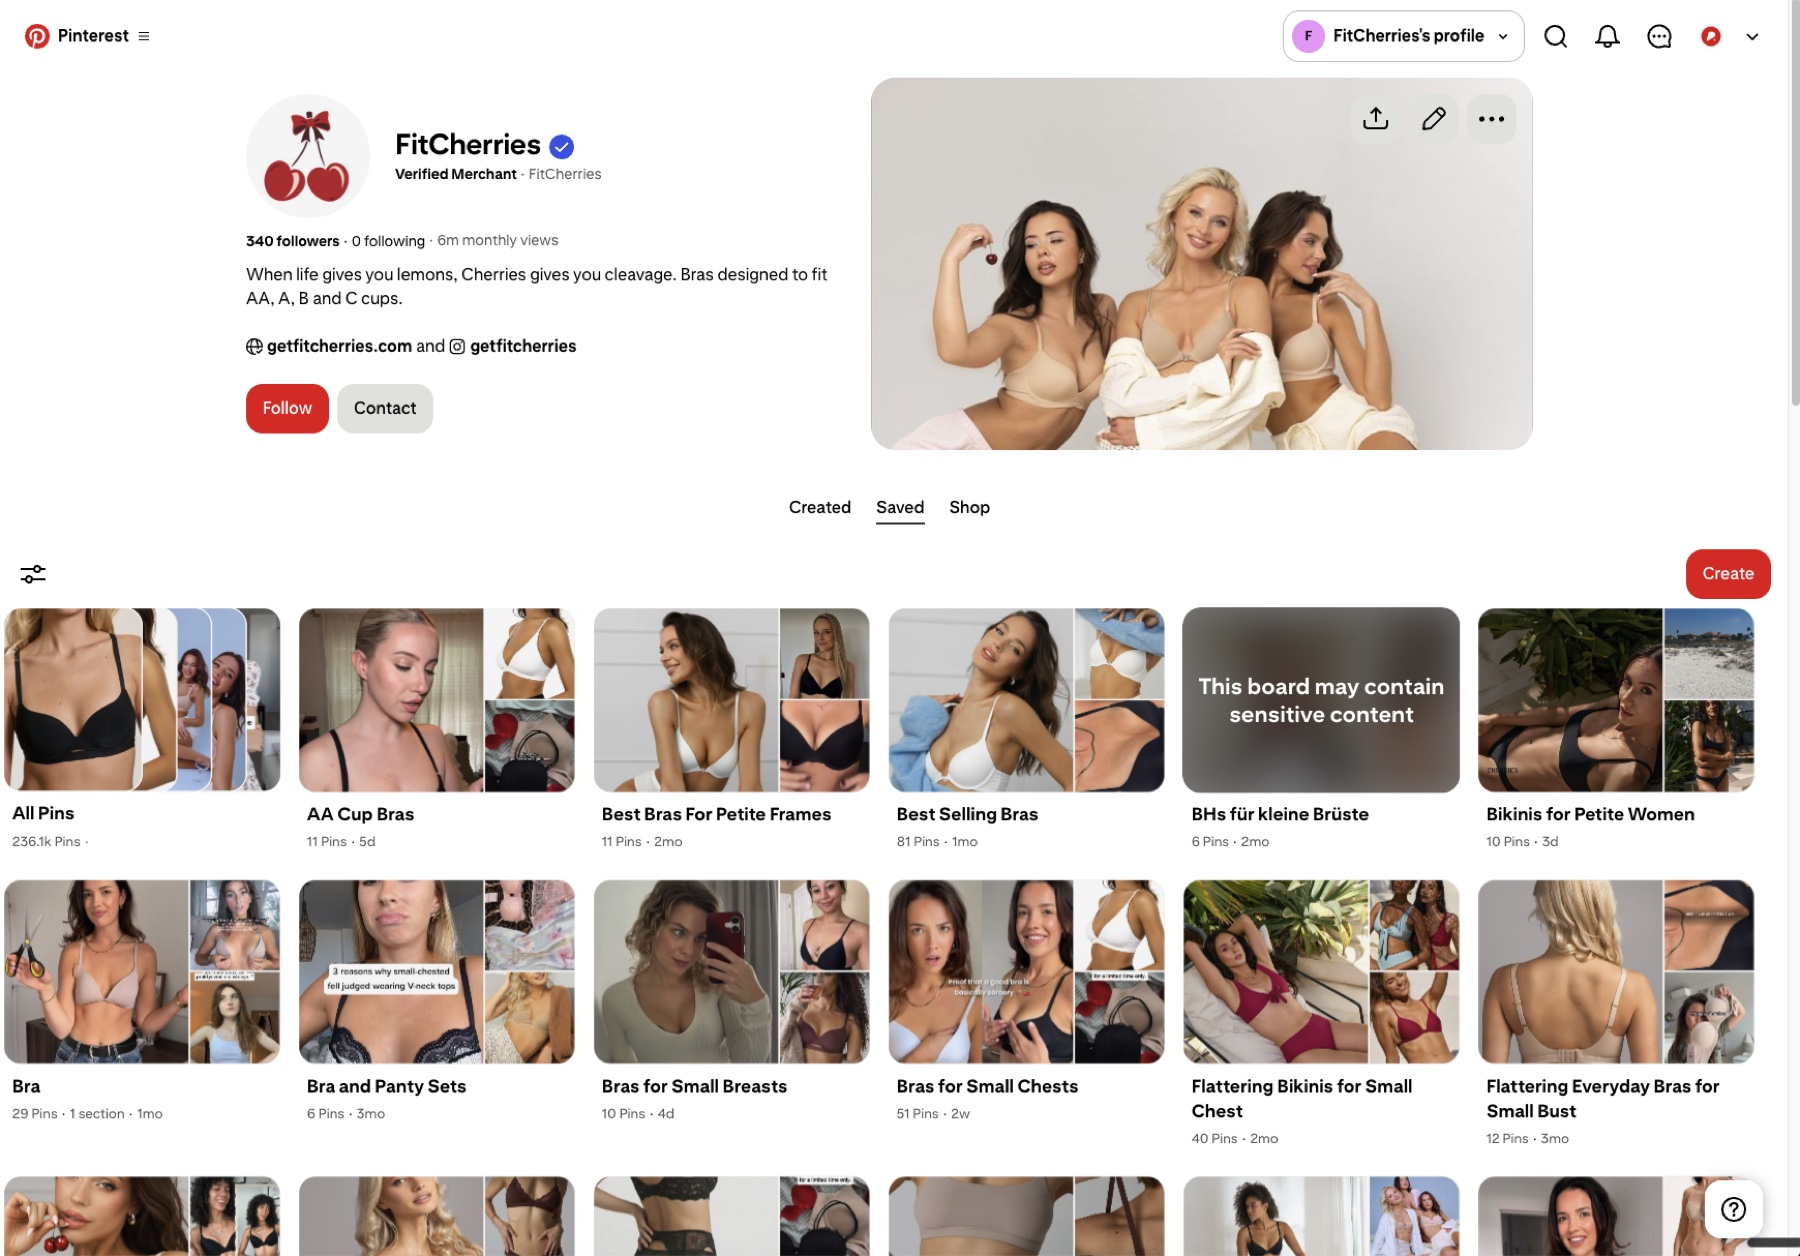
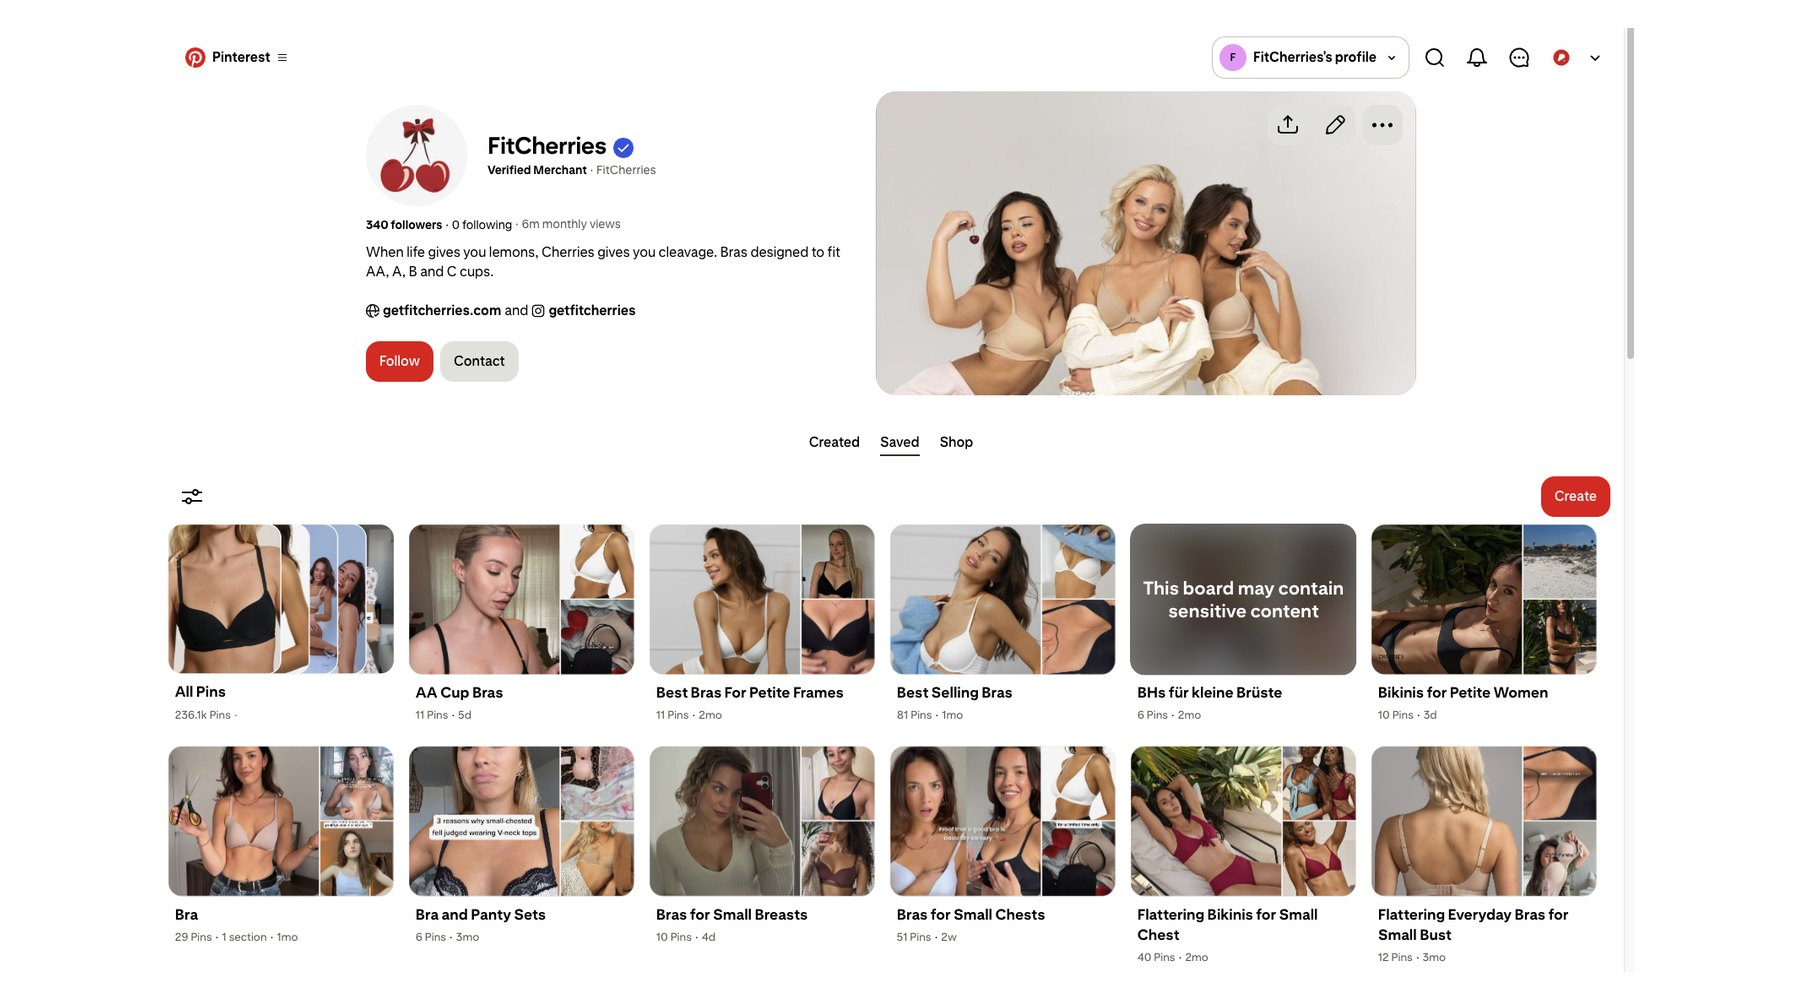
feat(pitch): Organic wordt een swipe van opzet naar resultaat
De twee beelden stonden onder elkaar in verschillende formaten: het
profiel met donkere balken aan de zijkant, de conversiepagina over de
volle breedte. Nu is het één kader waarin je van het ene naar het andere
swipet: eerst hoe het profiel eruitziet, dan wat het oplevert.

Beide beelden zijn op hetzelfde formaat gezet, 1800 bij 1000 met een witte
marge, zodat er bij het swipen niets verspringt. 1,8 op 1 zit tussen het
profiel en de conversiepagina in, zodat geen van beide ver hoeft te
krimpen. Van het profiel is de half zichtbare derde rij borden eraf.

Swipen werkt met touch en trackpad via scroll-snap. Het canvas zet
touch-action op none om zelf te kunnen pannen, dus het spoor zet het
terug op pan-x. Voor wie met een muis presenteert zijn er pijlen en
stippen. Geen labels op de slides, want de regel is geen bijschriften.

diff --git a/src/app/pitch/VisualCarousel.tsx b/src/app/pitch/VisualCarousel.tsx
@@ -1,0 +1,85 @@
+"use client";
+
+import { useEffect, useRef, useState } from "react";
+
+/**
+ * Meerdere beelden bij één sectie, als swipe: eerst wat we opzetten, dan wat
+ * het oplevert. Alle slides hebben hetzelfde formaat, zodat er bij het
+ * swipen niets verspringt.
+ *
+ * Swipen werkt met touch en trackpad (native scroll-snap), de pijlen en de
+ * stippen zijn er voor wie presenteert met een muis. Geen labels op de
+ * slides: de deck-regel is dat een beeld geen uitleg eronder krijgt.
+ */
+export default function VisualCarousel({
+  slides,
+  alt,
+  onZoom,
+}: {
+  slides: string[];
+  alt: string;
+  onZoom: (z: { src: string; alt: string }) => void;
+}) {
+  const track = useRef<HTMLDivElement>(null);
+  const [active, setActive] = useState(0);
+
+  useEffect(() => {
+    const el = track.current;
+    if (!el) return;
+    const onScroll = () =>
+      setActive(Math.round(el.scrollLeft / Math.max(1, el.clientWidth)));
+    el.addEventListener("scroll", onScroll, { passive: true });
+    return () => el.removeEventListener("scroll", onScroll);
+  }, []);
+
+  const go = (i: number) => {
+    const el = track.current;
+    if (!el) return;
+    const next = Math.max(0, Math.min(slides.length - 1, i));
+    el.scrollTo({ left: next * el.clientWidth, behavior: "smooth" });
+  };
+
+  return (
+    <div className="vc">
+      <div className="vc-track" ref={track}>
+        {slides.map((src) => (
+          <div className="vc-slide" key={src}>
+            {/* eslint-disable-next-line @next/next/no-img-element */}
+            <img src={src} alt={alt} onClick={() => onZoom({ src, alt })} />
+          </div>
+        ))}
+      </div>
+
+      <button
+        type="button"
+        className="vc-arrow prev"
+        aria-label="Vorige"
+        disabled={active === 0}
+        onClick={() => go(active - 1)}
+      >
+        ‹
+      </button>
+      <button
+        type="button"
+        className="vc-arrow next"
+        aria-label="Volgende"
+        disabled={active === slides.length - 1}
+        onClick={() => go(active + 1)}
+      >
+        ›
+      </button>
+
+      <div className="vc-dots">
+        {slides.map((src, i) => (
+          <button
+            key={src}
+            type="button"
+            aria-label={`Beeld ${i + 1} van ${slides.length}`}
+            className={i === active ? "on" : ""}
+            onClick={() => go(i)}
+          />
+        ))}
+      </div>
+    </div>
+  );
+}

diff --git a/src/app/pitch/pitch.css b/src/app/pitch/pitch.css
@@ -1811,7 +1811,92 @@
   margin-top: 0;
 }
 
-/* Een tweede beeld onder het eerste: een lijn ertussen, geen tweede kader. */
-.pitch-visual img.pitch-visual-extra {
-  border-top: 1px solid var(--line);
+/* --- Swipe tussen beelden (VisualCarousel) ------------------------------- */
+
+.vc {
+  position: relative;
+}
+.vc-track {
+  display: flex;
+  overflow-x: auto;
+  scroll-snap-type: x mandatory;
+  scrollbar-width: none;
+  /* Het canvas zet touch-action op none om zelf te kunnen pannen; hier moet
+     een vinger weer horizontaal mogen vegen. */
+  touch-action: pan-x;
+  overscroll-behavior-x: contain;
+}
+.vc-track::-webkit-scrollbar {
+  display: none;
+}
+.vc-slide {
+  flex: 0 0 100%;
+  scroll-snap-align: start;
+  scroll-snap-stop: always;
+}
+/* Alle slides hebben hetzelfde formaat, dus geen hoogtegrens en geen
+   letterbox: het beeld vult het kader precies. */
+.pitch-visual .vc-slide img {
+  width: 100%;
+  height: auto;
+  max-height: none;
+  display: block;
+  background: #fff;
+  cursor: zoom-in;
+}
+.vc-arrow {
+  position: absolute;
+  top: 50%;
+  transform: translateY(-50%);
+  width: 38px;
+  height: 38px;
+  border-radius: 50%;
+  border: 1px solid rgba(0, 0, 0, 0.12);
+  background: rgba(20, 17, 21, 0.78);
+  color: #fff;
+  font-size: 20px;
+  line-height: 1;
+  cursor: pointer;
+  display: flex;
+  align-items: center;
+  justify-content: center;
+  backdrop-filter: blur(6px);
+}
+.vc-arrow.prev {
+  left: 12px;
+}
+.vc-arrow.next {
+  right: 12px;
+}
+.vc-arrow:hover:not(:disabled) {
+  background: var(--red);
+}
+.vc-arrow:disabled {
+  opacity: 0;
+  pointer-events: none;
+}
+.vc-dots {
+  position: absolute;
+  left: 50%;
+  bottom: 12px;
+  transform: translateX(-50%);
+  display: flex;
+  gap: 7px;
+  padding: 6px 9px;
+  border-radius: 999px;
+  background: rgba(20, 17, 21, 0.7);
+}
+.vc-dots button {
+  width: 7px;
+  height: 7px;
+  padding: 0;
+  border: 0;
+  border-radius: 50%;
+  background: rgba(255, 255, 255, 0.35);
+  cursor: pointer;
+}
+.vc-dots button.on {
+  width: 20px;
+  border-radius: 4px;
+  background: var(--red-2);
 }

diff --git a/src/app/pitch/PitchCanvas.tsx b/src/app/pitch/PitchCanvas.tsx
@@ -20,6 +20,7 @@ import {
 } from "./data";
 import PitchCalculator from "./PitchCalculator";
 import { FIGURES } from "./figures";
+import VisualCarousel from "./VisualCarousel";
 import "./pitch.css";
 
 // ---------------------------------------------------------------------------
@@ -122,24 +123,22 @@ function renderVisual(
         node.visual.wide ? " is-wide" : " is-side"
       }${node.visual.figure === "guarantees" ? " is-bare" : ""}`}
     >
-      {art && (
-        // eslint-disable-next-line @next/next/no-img-element
-        <img
-          src={art}
+      {art && node.visual.extra?.length ? (
+        <VisualCarousel
+          slides={[art, ...node.visual.extra]}
           alt={node.visual.note}
-          onClick={() => onZoom({ src: art, alt: node.visual.note })}
+          onZoom={onZoom}
         />
+      ) : (
+        art && (
+          // eslint-disable-next-line @next/next/no-img-element
+          <img
+            src={art}
+            alt={node.visual.note}
+            onClick={() => onZoom({ src: art, alt: node.visual.note })}
+          />
+        )
       )}
-      {node.visual.extra?.map((src) => (
-        // eslint-disable-next-line @next/next/no-img-element
-        <img
-          key={src}
-          className="pitch-visual-extra"
-          src={src}
-          alt={node.visual.note}
-          onClick={() => onZoom({ src, alt: node.visual.note })}
-        />
-      ))}
       {Figure && <Figure />}
     </figure>
   );

diff --git a/src/app/pitch/data.ts b/src/app/pitch/data.ts
@@ -386,7 +386,8 @@ export const ROADMAP_NODES: RoadmapNode[] = [
     visual: {
       note: "Een volledig opgezet Pinterest-profiel: borden per zoekterm, 6 mln maandelijkse weergaven.",
       src: "/pitch/organic-profile.jpg",
-      // Eerst de opzet, dan wat die opzet in 30 dagen opleverde.
+      // Een swipe: eerst de opzet, dan wat die opzet in 30 dagen opleverde.
+      // Beide op 1800 x 1000, zodat er bij het swipen niets verspringt.
       extra: ["/pitch/organic-results.jpg"],
       // Breed: een lijngrafiek over zes maanden.
       wide: true,
